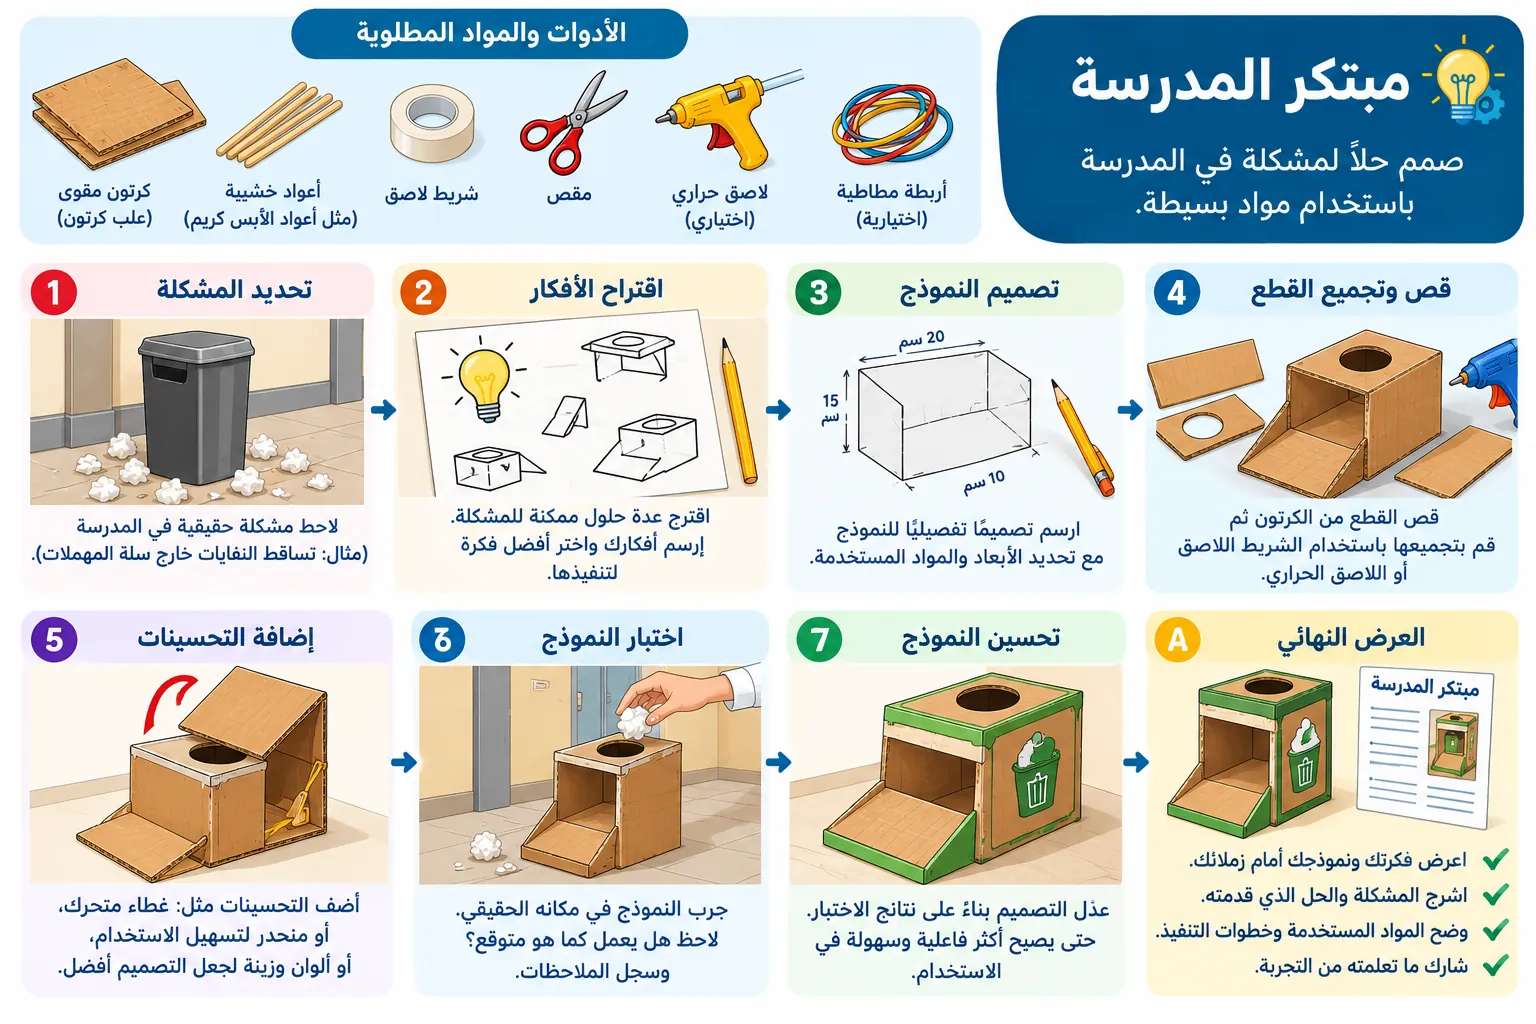
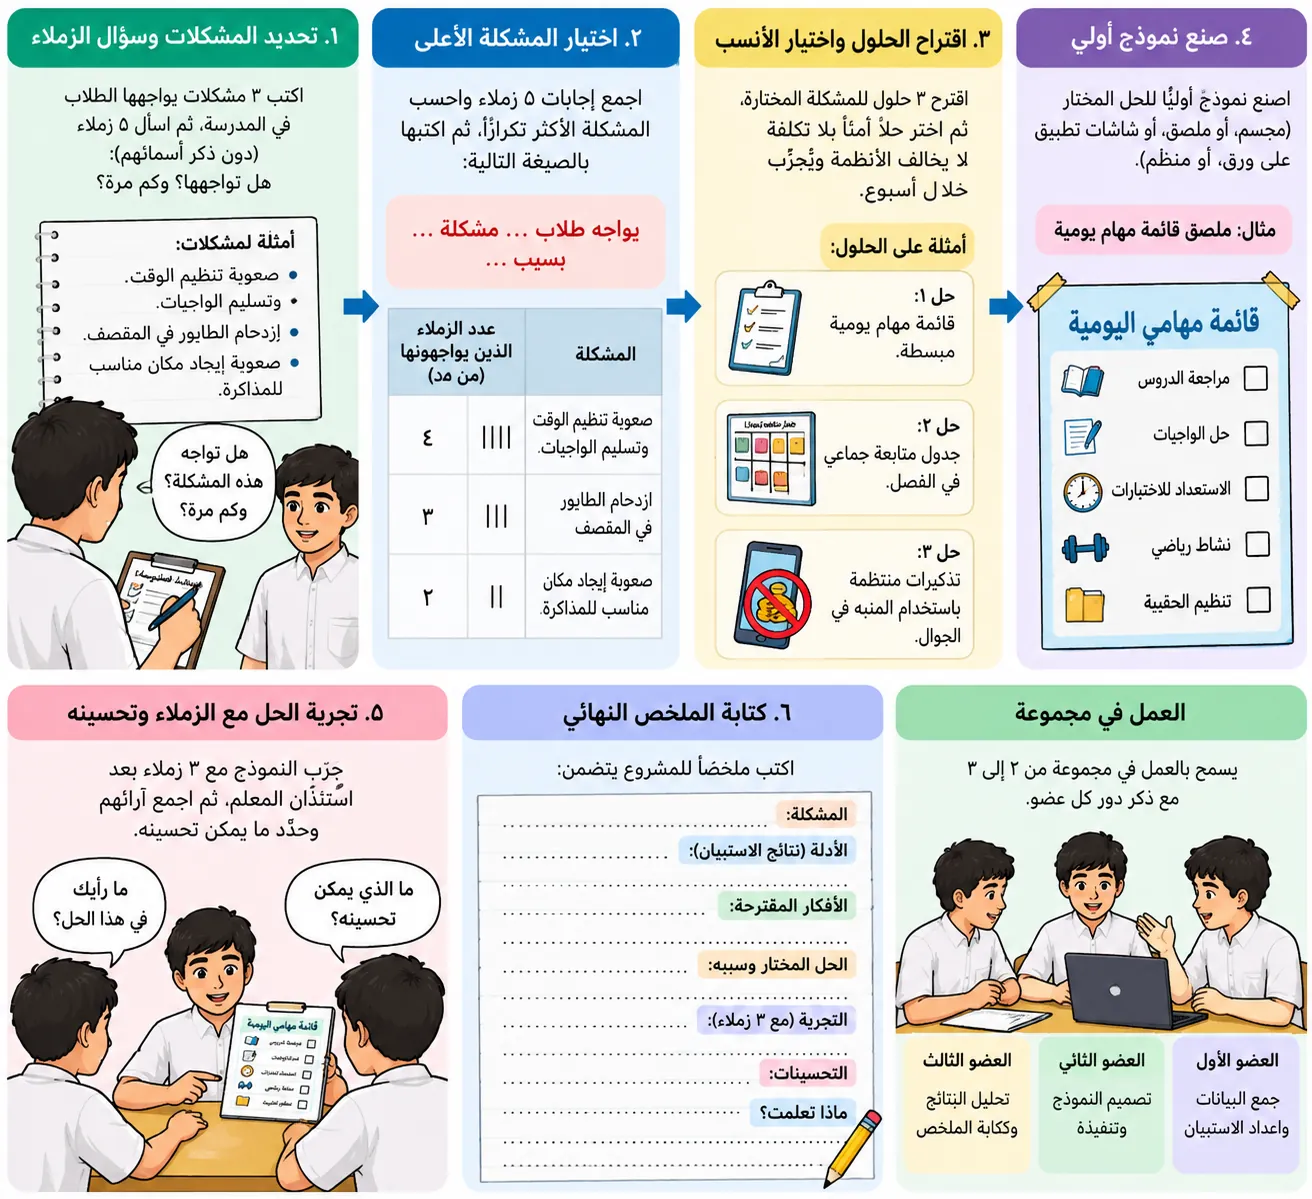
مبتكر المدرسة: صورة خطوات تطابق البطاقة (الاستبيان، الحلول، النموذج، التجربة، الملخص)
Claude-Session: https://claude.ai/code/session_019BZWJZLFiLA2P1ZomPS3ER

diff --git a/مساعد المعلم/teacher-dashboard/js/27-proj-illus-js.js b/مساعد المعلم/teacher-dashboard/js/27-proj-illus-js.js
@@ -183,4 +183,4 @@ const PROJ_ILLUS = (() => {
 
 /* 🖼 صور جاهزة تحلّ محلّ الرسم لبعض المشاريع: ملف بالاسم نفسه في projects/ داخل اللوحة وبوابة الطالب.
    النشاط يحمل اسم الملف فقط (ilu) لا الصورة نفسها. ?v= يتغيّر عند استبدال الصورة. */
-const PROJ_ILLUS_IMG = { bridge: 'bridge.webp?v=e56a0a94', balloon: 'balloon.webp?v=42ca3485', filter: 'filter.webp?v=22ca0912', holder: 'holder.webp?v=44728075', school: 'school.webp?v=da7c08d3' };
+const PROJ_ILLUS_IMG = { bridge: 'bridge.webp?v=e56a0a94', balloon: 'balloon.webp?v=42ca3485', filter: 'filter.webp?v=22ca0912', holder: 'holder.webp?v=44728075', school: 'school.webp?v=34b7e6fb' };

diff --git a/مساعد المعلم/teacher-dashboard/index.html b/مساعد المعلم/teacher-dashboard/index.html
@@ -47,7 +47,7 @@
 <script src="js/24-not-started-js.js?v=18214aa8" defer></script>
 <script src="js/25-today-board-js.js?v=5dfaabcb" defer></script>
 <script src="js/26-br-v2-js.js?v=3086c154" defer></script>
-<script src="js/27-proj-illus-js.js?v=b1ac7356" defer></script>
+<script src="js/27-proj-illus-js.js?v=d2f03a2d" defer></script>
 <style id="comprehensive-print-identical-all-devices">
 /* 🖨 الكشف الشامل: نفس التخطيط الفيزيائي على الجوال والكمبيوتر.
    هذه القواعد تأتي في آخر الرأس لتتغلب على أي قواعد شاشة سابقة. */
